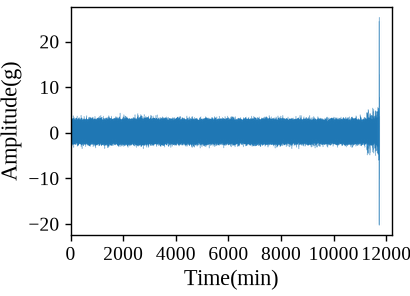
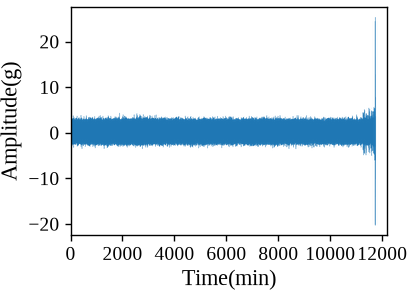
fix: prevent waveform tick label clipping

diff --git a/utils/restyle_waveform.py b/utils/restyle_waveform.py
@@ -102,7 +102,7 @@ def render_chart(
 
     # Match the approximately 410×296 reference layout.
     # Leave extra room for the five-digit "12000" tick label.
-    figure.subplots_adjust(left=0.172, right=0.955, bottom=0.205, top=0.975)
+    figure.subplots_adjust(left=0.172, right=0.945, bottom=0.205, top=0.975)
 
     png_path.parent.mkdir(parents=True, exist_ok=True)
     figure.savefig(
@@ -117,6 +117,14 @@ def render_chart(
         transparent=False,
     )
     plt.close(figure)
+
+    # Matplotlib path output may contain line-ending spaces; normalize them so
+    # repository whitespace checks remain clean.
+    svg_text = svg_path.read_text(encoding="utf-8")
+    svg_path.write_text(
+        "\n".join(line.rstrip() for line in svg_text.splitlines()) + "\n",
+        encoding="utf-8",
+    )
 
 
 def parse_args() -> argparse.Namespace:
